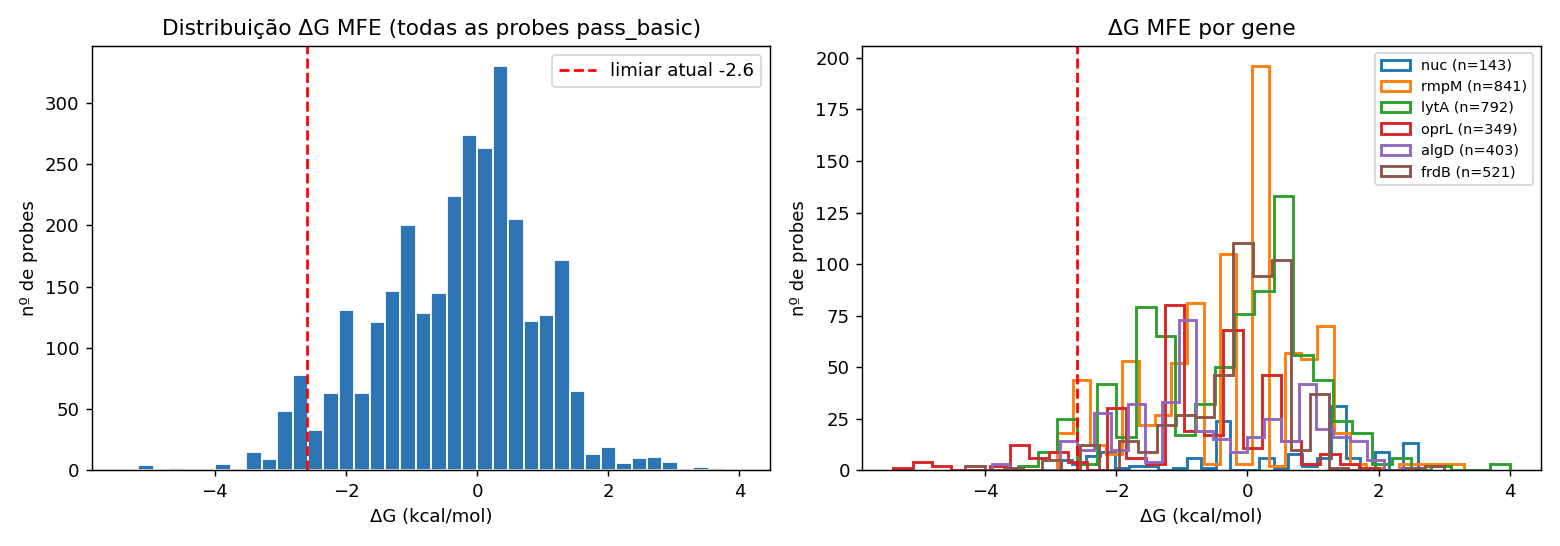
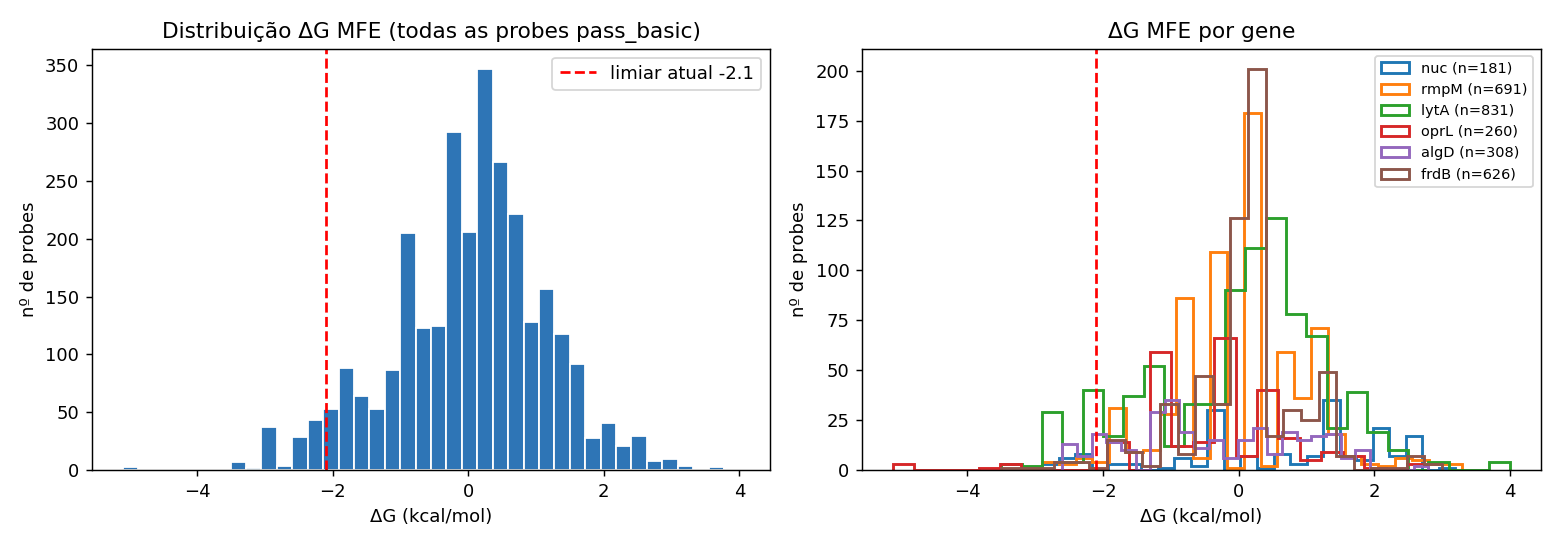
Recalibrate the seqfold threshold to the 5th percentile in 1x PBS
The secondary-structure threshold is defined as the 5th percentile of the MFE
of the probes that pass the basic screen. seqfold does not depend on salt, but
the population does: in 1x PBS the hairpin and homodimer filters remove more of
the structured candidates first, and the 5th percentile moves from -2.6 to
-2.1 kcal/mol. The threshold (pipeline and analysis.py) and the distribution
figure are updated so that the stated derivation stays true.

Effect: 2797 windows pass (2872 with -2.6); the top-5 per gene and the
top-25 per gene are unchanged.

diff --git a/pipeline.py b/pipeline.py
@@ -136,7 +136,7 @@ DEFAULTS = {
     "max_len":       5000,
     "len_cluster":     True,   # selecionar automaticamente o cluster de comprimento
     "len_cluster_tol": 0.25,   # ±25% em torno do comprimento dominante
-    "seqfold_dg_max": -2.6,   # kcal/mol — P5 da distribuição observada (fixo/reprodutível); era -6.0
+    "seqfold_dg_max": -2.1,   # kcal/mol — P5 da distribuição observada a 1× PBS (fixo/reprodutível)
 }
 
 # ── Perfis por TIPO (bacteria/virus/fungus/protozoa/host) ────────────────────

diff --git a/scripts/analysis.py b/scripts/analysis.py
@@ -47,7 +47,7 @@ FIGDIR.mkdir(parents=True, exist_ok=True)
 ANADIR.mkdir(parents=True, exist_ok=True)
 
 GENES = ["nuc", "rmpM", "lytA", "oprL", "algD", "frdB"]
-SEQFOLD_DEFAULT = -2.6           # limiar no pipeline (P5 fixo; recalibrado de -6.0)
+SEQFOLD_DEFAULT = -2.1           # limiar no pipeline (P5 a 1× PBS, fixo)
 KMER_K = 4
 
 _md_lines: list[str] = []
